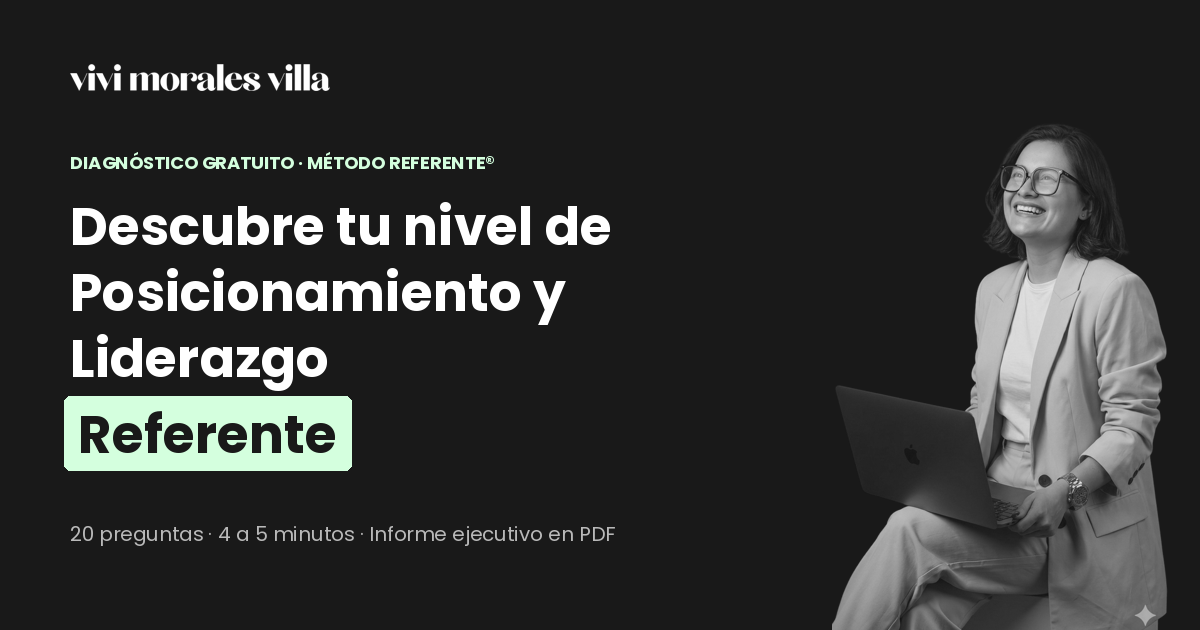
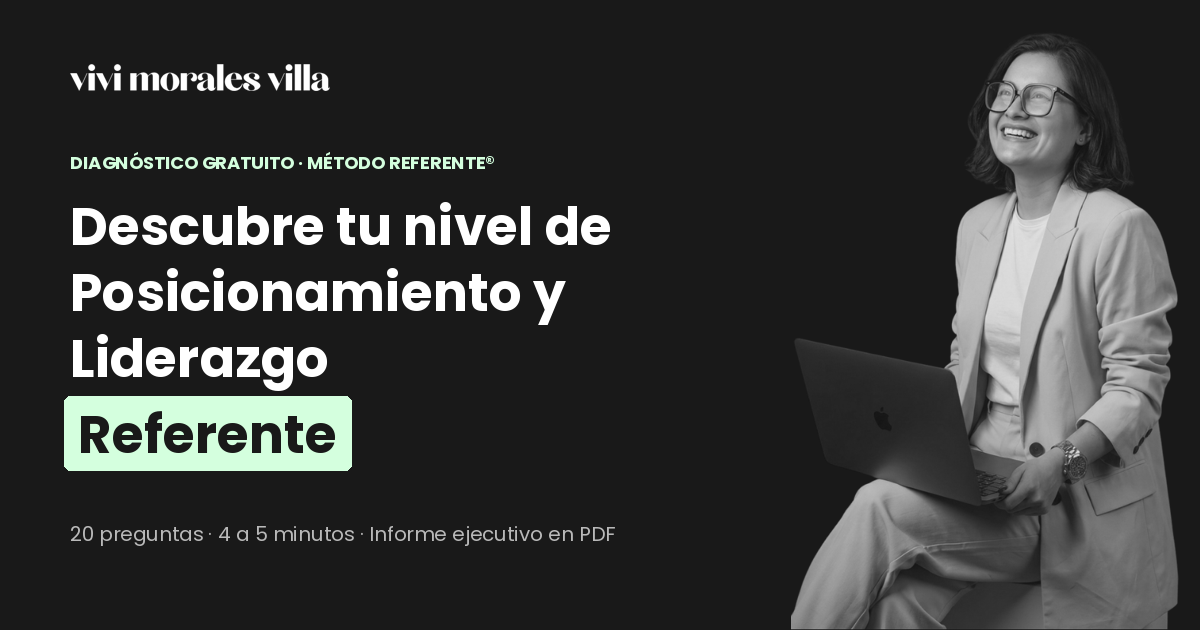
Landing y resultado: fotos nuevas, firma con redes y reinicio desde la landing
- Portada a la altura de la pantalla, foto nueva sin marca de IA y logo de fondo completo
- Sección 02: "Tu talento necesita ser reconocido como Referente"
- Sección 04 con nueva foto y llamado "Tú y tu experiencia necesitan ser reconocidos
  como Referentes" con botón; se elimina la franja verde final
- Resultado: texto del hashtag junto al botón de compartir, firma con logo, Instagram
  y LinkedIn, y botón para volver a realizar el diagnóstico desde la landing
- PDF: encabezado de las páginas internas con logo y URL más grandes
- Imagen para redes (og.png) con la foto nueva

Claude-Session: https://claude.ai/code/session_016wE6jvey6rz8rRZpkKC8Qa

Changed region(s): [[0.6475, 0.0603, 0.9867, 1.0], [0.6783, 0.5429, 0.74, 0.573]]

diff --git a/src/components/report/ReportDocument.tsx b/src/components/report/ReportDocument.tsx
@@ -24,11 +24,11 @@ const C = {
 };
 
 const s = StyleSheet.create({
-  page: { fontFamily: "Poppins", fontSize: 10, lineHeight: 1.5, paddingTop: 54, paddingBottom: 78, paddingHorizontal: 50 },
+  page: { fontFamily: "Poppins", fontSize: 10, lineHeight: 1.5, paddingTop: 76, paddingBottom: 78, paddingHorizontal: 50 },
   dark: { backgroundColor: C.carbon, color: C.blanco },
   mint: { backgroundColor: C.menta, color: C.carbon },
   light: { backgroundColor: C.hueso, color: C.carbon },
-  header: { position: "absolute", top: 24, left: 50, right: 50, flexDirection: "row", justifyContent: "space-between", fontSize: 7, letterSpacing: 1.4, fontWeight: 600 },
+  header: { position: "absolute", top: 24, left: 50, right: 50, flexDirection: "row", justifyContent: "space-between", alignItems: "center" },
   footer: { position: "absolute", bottom: 22, left: 50, right: 50, flexDirection: "row", justifyContent: "space-between", alignItems: "flex-start", borderTopWidth: 1, paddingTop: 9 },
   eyebrow: { fontSize: 8, fontWeight: 600, letterSpacing: 1.6, textTransform: "uppercase", marginBottom: 8 },
   h1: { fontSize: 30, fontWeight: 700, lineHeight: 1.12 },
@@ -52,11 +52,16 @@ interface Props {
   origin: string;
 }
 
-function Header({ n, color }: { n: number; color: string }) {
+function Header({ n, color, accent, logo }: { n: number; color: string; accent: string; logo: string }) {
   return (
     <View style={[s.header, { color }]} fixed>
-      <Text>VIVI MORALES VILLA / MÉTODO REFERENTE®</Text>
-      <Text>{String(n).padStart(2, "0")} / 06</Text>
+      <Image src={logo} style={{ width: 150 }} />
+      <View style={{ alignItems: "flex-end" }}>
+        <Link src={LINKS.sitio} style={{ fontSize: 12, fontWeight: 700, color: accent, textDecoration: "none" }}>
+          {SITE_LABEL}
+        </Link>
+        <Text style={{ fontSize: 7, letterSpacing: 1.4, fontWeight: 600, marginTop: 2 }}>{String(n).padStart(2, "0")} / 06</Text>
+      </View>
     </View>
   );
 }
@@ -232,7 +237,7 @@ export default function ReportDocument({ lead, scores, answers, date, origin }: 
 
       {/* Página 2 · Marco metodológico */}
       <Page size="A4" style={[s.page, s.mint]}>
-        <Header n={2} color={C.salviaOscuro} />
+        <Header n={2} color={C.salviaOscuro} accent={C.carbon} logo={img("/brand/logo-wordmark-carbon.png")} />
         <Text style={[s.eyebrow, { color: C.salviaOscuro }]}>Marco metodológico</Text>
         <Text style={s.h2}>Las 2 dimensiones de la autoridad profesional</Text>
         <Text style={[s.p, { width: 440 }]}>
@@ -240,7 +245,7 @@ export default function ReportDocument({ lead, scores, answers, date, origin }: 
           de la exposición aleatoria: proviene del equilibrio entre el Liderazgo Real y la Visibilidad Estratégica.
         </Text>
 
-        <View style={[s.row, { marginTop: 14, alignItems: "stretch" }]}>
+        <View style={[s.row, { marginTop: 10, alignItems: "stretch" }]}>
           <View style={[s.box, { backgroundColor: C.blanco, flex: 1 }]}>
             <Text style={{ fontSize: 7.5, fontWeight: 600, color: C.salviaOscuro, letterSpacing: 1 }}>{AXES.x.eje.toUpperCase()}</Text>
             <Text style={{ fontWeight: 700, fontSize: 10.5 }}>{AXES.x.nombre}</Text>
@@ -271,7 +276,7 @@ export default function ReportDocument({ lead, scores, answers, date, origin }: 
             d: "Mide la estructura de tu huella digital, la claridad de tu Método propio, la optimización de tus perfiles profesionales y tu nivel de visibilidad en buscadores e Inteligencia Artificial, con base en los 5 Ejes del Posicionamiento Referente.",
           },
         ].map((x) => (
-          <View key={x.n} style={[s.row, { marginTop: 22 }]} wrap={false}>
+          <View key={x.n} style={[s.row, { marginTop: 14 }]} wrap={false}>
             <Text style={[s.numLight, { width: 62, color: C.salviaOscuro }]}>{x.n}</Text>
             <View style={{ flex: 1 }}>
               <Text style={s.h3}>{x.t}</Text>
@@ -280,7 +285,7 @@ export default function ReportDocument({ lead, scores, answers, date, origin }: 
           </View>
         ))}
 
-        <View style={[s.box, { backgroundColor: C.blanco, marginTop: 22 }]}>
+        <View style={[s.box, { backgroundColor: C.blanco, marginTop: 14 }]}>
           <Text style={[s.eyebrow, { color: C.salviaOscuro, marginBottom: 4 }]}>Escala de medición</Text>
           <Text>
             Cada eje se evalúa con 10 preguntas y se expresa de 0 a 100 puntos. El punto de corte estratégico (50/100) separa
@@ -288,7 +293,7 @@ export default function ReportDocument({ lead, scores, answers, date, origin }: 
           </Text>
         </View>
 
-        <View style={[s.row, { marginTop: 22 }]}>
+        <View style={[s.row, { marginTop: 14 }]}>
           {EVIDENCIA.map((e, i) => (
             <View key={e.cifra} style={[s.box, { backgroundColor: C.carbon, color: C.blanco, flex: 1, marginLeft: i ? 10 : 0 }]}>
               <Text style={{ fontSize: 24, fontWeight: 700, color: C.menta, lineHeight: 1 }}>{e.cifra}</Text>
@@ -302,7 +307,7 @@ export default function ReportDocument({ lead, scores, answers, date, origin }: 
 
       {/* Página 3 · Matriz de Posicionamiento Referente */}
       <Page size="A4" style={[s.page, s.dark]}>
-        <Header n={3} color={C.salvia} />
+        <Header n={3} color={C.salvia} accent={C.blanco} logo={img("/brand/logo-wordmark-blanco.png")} />
         <Text style={[s.eyebrow, { color: C.menta }]}>Visualización del diagnóstico</Text>
         <Text style={s.h2}>Tu ubicación en la Matriz de Posicionamiento Referente</Text>
         <View style={{ alignItems: "center", marginTop: 10, marginBottom: 18 }}>
@@ -325,7 +330,7 @@ export default function ReportDocument({ lead, scores, answers, date, origin }: 
 
       {/* Página 4 · Diagnóstico profundo */}
       <Page size="A4" style={[s.page, s.light]}>
-        <Header n={4} color={C.salvia} />
+        <Header n={4} color={C.salvia} accent={C.carbon} logo={img("/brand/logo-wordmark-carbon.png")} />
         <Text style={[s.eyebrow, { color: C.salvia }]}>
           Diagnóstico profundo · Cuadrante {q.number} · {q.coords}
         </Text>
@@ -356,7 +361,7 @@ export default function ReportDocument({ lead, scores, answers, date, origin }: 
 
       {/* Página 5 · Recomendaciones y ruta */}
       <Page size="A4" style={[s.page, s.dark]}>
-        <Header n={5} color={C.salvia} />
+        <Header n={5} color={C.salvia} accent={C.blanco} logo={img("/brand/logo-wordmark-blanco.png")} />
         <Text style={[s.eyebrow, { color: C.menta }]}>Recomendaciones personalizadas</Text>
         <Text style={s.h2}>Tu ruta de evolución</Text>
 
@@ -413,7 +418,7 @@ export default function ReportDocument({ lead, scores, answers, date, origin }: 
 
       {/* Página 6 · Plan de acción y CTA */}
       <Page size="A4" style={[s.page, s.light]}>
-        <Header n={6} color={C.salvia} />
+        <Header n={6} color={C.salvia} accent={C.carbon} logo={img("/brand/logo-wordmark-carbon.png")} />
         <Text style={[s.eyebrow, { color: C.salvia }]}>Plan de acción</Text>
         <Text style={s.h2}>Tus próximos 3 pasos</Text>
 

diff --git a/src/app/globals.css b/src/app/globals.css
@@ -74,15 +74,15 @@ h3 { font-size: clamp(19px, 2.2vw, 22px); }
 .topbar .site { font-size: 13px; color: var(--texto-suave); text-decoration: none; }
 
 /* Hero */
-.hero { position: relative; min-height: min(860px, 100svh); display: flex; flex-direction: column; overflow: hidden; }
-.hero-grid { flex: 1; display: grid; grid-template-columns: 1.15fr 0.85fr; align-items: center; gap: 24px; }
+.hero { position: relative; height: 100svh; min-height: 620px; max-height: 960px; display: flex; flex-direction: column; overflow: hidden; }
+.hero-grid { flex: 1; min-height: 0; display: grid; grid-template-columns: 1.15fr 0.85fr; align-items: center; gap: 24px; }
 .hero-copy { padding: 32px 0 64px; position: relative; z-index: 2; }
 .hero-copy h1 { margin-bottom: 24px; max-width: 16ch; }
 .hero-meta { display: flex; flex-wrap: wrap; gap: 10px 22px; margin: 28px 0 36px; font-size: 14px; color: var(--texto-suave); }
 .hero-meta span::before { content: ""; display: inline-block; width: 8px; height: 8px; border-radius: 2px; background: var(--menta); margin-right: 8px; vertical-align: 1px; }
-.hero-photo { align-self: end; position: relative; height: 100%; display: flex; align-items: flex-end; justify-content: center; }
-.hero-photo img { max-height: 760px; width: auto; object-fit: contain; -webkit-mask-image: linear-gradient(to bottom, #000 82%, transparent); mask-image: linear-gradient(to bottom, #000 82%, transparent); }
-.watermark { position: absolute; left: 50%; bottom: -2%; transform: translateX(-50%); width: 120%; max-width: none; opacity: 0.04; pointer-events: none; z-index: 1; }
+.hero-photo { align-self: stretch; position: relative; min-height: 0; display: flex; align-items: flex-end; justify-content: center; padding-top: 8px; }
+.hero-photo img { max-height: 100%; width: auto; object-fit: contain; position: relative; z-index: 2; }
+.watermark { flex: none; display: block; width: calc(100% - 2 * var(--gutter)); max-width: none; margin: 0 auto 18px; opacity: 0.07; pointer-events: none; }
 
 /* Secciones */
 .section { padding: clamp(64px, 10vw, 120px) 0; position: relative; }
@@ -116,8 +116,9 @@ h3 { font-size: clamp(19px, 2.2vw, 22px); }
 .quad p { margin: 0; font-size: 14px; color: #4a4a4a; }
 
 .about { display: grid; grid-template-columns: 0.8fr 1.2fr; gap: clamp(32px, 6vw, 72px); align-items: center; }
-.about .about-photo { width: 100%; max-width: 320px; height: auto; margin: 0 auto; }
-.about .monogram { height: 34px; width: auto; margin-top: 28px; }
+.about .about-photo { width: 100%; max-width: 300px; height: auto; margin: 0 auto; }
+.about-cta { margin-top: 32px; padding-top: 28px; border-top: 1px solid var(--linea); }
+.about-cta p { font-size: clamp(20px, 2.4vw, 26px); font-weight: 600; line-height: 1.35; margin: 0 0 20px; }
 
 .cta-final { text-align: left; }
 .footer { border-top: 1px solid var(--linea); padding: 28px 0; font-size: 13px; color: var(--texto-suave); }
@@ -213,7 +214,6 @@ h3 { font-size: clamp(19px, 2.2vw, 22px); }
 .panel p { margin: 0 0 12px; }
 .panel ul { margin: 0; padding-left: 18px; }
 .panel li { margin-bottom: 8px; }
-.restart { background: none; border: 0; color: var(--texto-suave); text-decoration: underline; font-size: 13px; padding: 0; }
 
 .toast { position: fixed; left: 50%; bottom: 24px; transform: translateX(-50%); background: var(--blanco); color: var(--carbon); padding: 12px 18px; border-radius: 10px; font-size: 14px; box-shadow: 0 10px 30px rgba(0, 0, 0, 0.35); z-index: 50; max-width: calc(100vw - 32px); }
 
@@ -226,6 +226,7 @@ h3 { font-size: clamp(19px, 2.2vw, 22px); }
 
 @media (max-width: 900px) {
   .hero-grid, .split, .about, .result-hero, .result-grid { grid-template-columns: 1fr; }
+  .hero { height: auto; max-height: none; min-height: 0; padding-bottom: 72px; }
   .hero-photo { order: -1; height: auto; max-height: 340px; overflow: hidden; }
   .hero-photo img { max-height: 340px; }
   .hero-copy { padding-top: 0; }
@@ -252,3 +253,26 @@ h3 { font-size: clamp(19px, 2.2vw, 22px); }
 
 /* Campo de teléfono con indicativo */
 .phone { display: grid; grid-template-columns: minmax(0, 170px) 1fr; gap: 8px; }
+
+/* Compartir resultado */
+.share-row { display: flex; align-items: center; gap: 12px 16px; margin-top: 12px; }
+.share-row .btn { flex: none; }
+.share-row p { margin: 0; font-size: 13px; line-height: 1.45; color: var(--texto-suave); }
+.share-row b { color: var(--menta); font-weight: 600; }
+
+/* Firma al final de la hoja de resultados */
+.result-footer { display: flex; flex-wrap: wrap; align-items: center; justify-content: space-between; gap: 28px; margin-top: 64px; padding-top: 32px; border-top: 1px solid var(--linea); }
+.signature { display: flex; align-items: center; gap: 24px; }
+.signature-logo { width: 120px; height: auto; flex: none; }
+.signature-name { color: var(--menta); font-weight: 700; font-size: 20px; margin: 0 0 4px; }
+.signature-roles { color: var(--texto-suave); font-size: 13px; margin: 0 0 12px; max-width: 52ch; }
+.signature-social { display: flex; align-items: center; gap: 10px; }
+.signature-social a { width: 34px; height: 34px; border-radius: 8px; background: var(--menta); color: var(--carbon); display: grid; place-items: center; transition: background 0.15s; }
+.signature-social a:hover { background: var(--verde); }
+.signature-social svg { width: 18px; height: 18px; }
+.signature-social span { margin-left: 6px; color: var(--menta); font-size: 13px; font-weight: 600; letter-spacing: 0.22em; }
+@media (max-width: 560px) {
+  .signature { flex-direction: column; align-items: flex-start; gap: 16px; }
+  .result-footer .btn { width: 100%; }
+  .share-row { flex-direction: column; align-items: stretch; }
+}

diff --git a/src/components/Landing.tsx b/src/components/Landing.tsx
@@ -41,7 +41,7 @@ export default function Landing({ onStart }: { onStart: () => void }) {
             {cta}
           </div>
           <div className="hero-photo">
-            <img src="/photos/vivi-laptop.png" alt="Vivi Morales Villa" width={538} height={955} />
+            <img src="/photos/vivi-laptop.png" alt="Vivi Morales Villa" width={510} height={785} />
           </div>
         </div>
         <img className="watermark" src="/brand/logo-wordmark-blanco.png" alt="" aria-hidden />
@@ -85,7 +85,7 @@ export default function Landing({ onStart }: { onStart: () => void }) {
         <div className="wrap">
           <p className="eyebrow">02 / La evidencia</p>
           <h2>
-            Tu talento necesita <span className="hl">ser visible.</span>
+            Tu talento necesita ser reconocido como <span className="hl">Referente</span>
           </h2>
           <div className="stats">
             {EVIDENCIA.map((e) => (
@@ -126,7 +126,7 @@ export default function Landing({ onStart }: { onStart: () => void }) {
 
       <section className="section">
         <div className="wrap about">
-          <img className="about-photo" src="/photos/vivi-silla.png" alt="Vivi Morales Villa" width={615} height={1092} />
+          <img className="about-photo" src="/photos/vivi-camisa.png" alt="Vivi Morales Villa" width={361} height={756} />
           <div>
             <p className="eyebrow">04 / Quién está detrás</p>
             <h2>Vivi Morales Villa</h2>
@@ -139,20 +139,15 @@ export default function Landing({ onStart }: { onStart: () => void }) {
               Colombina y SGS. Ha formado a líderes y empresarios en más de 14 países y es la estratega detrás de la
               reputación digital de reconocidos ejecutivos y LinkedIn Top Voices.
             </p>
-            <img className="monogram" src="/brand/monograma-blanco.png" alt="vmv" width={423} height={121} />
+            <div className="about-cta">
+              <p>
+                Tú y tu experiencia necesitan ser reconocidos como <span className="hl">Referentes.</span>
+              </p>
+              <button className="btn btn-primary" onClick={onStart}>
+                Comenzar diagnóstico <span aria-hidden>→</span>
+              </button>
+            </div>
           </div>
-        </div>
-      </section>
-
-      <section className="section mint">
-        <div className="wrap narrow cta-final">
-          <h2>Tus resultados necesitan ser visibles. Empieza por saber dónde estás.</h2>
-          <p className="lead" style={{ margin: "16px 0 32px" }}>
-            Responde con honestidad: no hay respuestas correctas, solo tu momento actual.
-          </p>
-          <button className="btn btn-dark" onClick={onStart}>
-            Comenzar mi diagnóstico <span aria-hidden>→</span>
-          </button>
         </div>
       </section>
 

diff --git a/src/components/Signature.tsx b/src/components/Signature.tsx
@@ -1,0 +1,46 @@
+/* eslint-disable @next/next/no-img-element */
+// Firma de Vivi Morales Villa con redes sociales (misma composición que el informe PDF).
+import { HANDLE, SOCIAL } from "@/lib/config";
+
+function Instagram() {
+  return (
+    <svg viewBox="0 0 24 24" aria-hidden>
+      <rect x="3" y="3" width="18" height="18" rx="5" fill="none" stroke="currentColor" strokeWidth="2" />
+      <circle cx="12" cy="12" r="4" fill="none" stroke="currentColor" strokeWidth="2" />
+      <circle cx="17.5" cy="6.5" r="1.3" fill="currentColor" />
+    </svg>
+  );
+}
+
+function LinkedIn() {
+  return (
+    <svg viewBox="0 0 24 24" aria-hidden>
+      <rect x="3.5" y="9" width="3.6" height="11" fill="currentColor" />
+      <circle cx="5.3" cy="5.3" r="2.1" fill="currentColor" />
+      <path d="M10 9h3.4v1.6c.6-1 1.8-1.9 3.6-1.9 3 0 3.5 2 3.5 4.6V20h-3.6v-5.8c0-1.4 0-3-1.9-3s-2.1 1.4-2.1 2.9V20H10z" fill="currentColor" />
+    </svg>
+  );
+}
+
+export default function Signature() {
+  return (
+    <div className="signature">
+      <img className="signature-logo" src="/brand/monograma-blanco.png" alt="vmv · Vivi Morales Villa" width={423} height={121} />
+      <div>
+        <p className="signature-name">Vivi Morales Villa</p>
+        <p className="signature-roles">
+          Conferencista y entrenadora de Referentes · Estratega de Liderazgo y Posicionamiento · Creadora del Método REFERENTE®
+        </p>
+        <div className="signature-social">
+          <a href={SOCIAL.instagram} target="_blank" rel="noopener" aria-label="Instagram de Vivi Morales Villa">
+            <Instagram />
+          </a>
+          <a href={SOCIAL.linkedin} target="_blank" rel="noopener" aria-label="LinkedIn de Vivi Morales Villa">
+            <LinkedIn />
+          </a>
+          <span>{HANDLE.toUpperCase()}</span>
+        </div>
+      </div>
+    </div>
+  );
+}

diff --git a/src/components/Result.tsx b/src/components/Result.tsx
@@ -2,6 +2,7 @@
 
 import { useState } from "react";
 import Matrix from "./Matrix";
+import Signature from "./Signature";
 import type { SavedResult } from "./Funnel";
 import type { LeadInput } from "@/lib/form-options";
 import { QUADRANTS, brechaPrioritaria } from "@/lib/content";
@@ -115,9 +116,14 @@ export default function Result({ lead, result, onRestart }: Props) {
             <button className="btn btn-primary" onClick={getPdf} disabled={busy !== ""}>
               {busy === "pdf" ? "Generando tu informe…" : "Descargar mi informe (PDF)"}
             </button>
+          </div>
+          <div className="share-row">
             <button className="btn btn-ghost" onClick={getCard} disabled={busy !== ""}>
               {busy === "card" ? "Creando tarjeta…" : "Compartir mi resultado"}
             </button>
+            <p>
+              Compártelo en tus redes con el hashtag <b>#LiderazgoReferente</b>
+            </p>
           </div>
           <p className="result-note">Tu informe ejecutivo de 6 páginas incluye la lectura completa de tu perfil y tu ruta de evolución.</p>
         </div>
@@ -186,11 +192,12 @@ export default function Result({ lead, result, onRestart }: Props) {
         </div>
       </div>
 
-      <p style={{ marginTop: 48 }}>
-        <button className="restart" onClick={onRestart}>
-          Realizar el test nuevamente
+      <footer className="result-footer">
+        <Signature />
+        <button className="btn btn-ghost" onClick={onRestart}>
+          Volver a realizar el diagnóstico
         </button>
-      </p>
+      </footer>
       {toast && (
         <div className="toast" role="status">
           {toast}

diff --git a/src/lib/config.ts b/src/lib/config.ts
@@ -10,6 +10,12 @@ export const LINKS = {
   privacidad: "https://www.vivimoralesvilla.com/#politica-de-datos", // TODO: URL de la Política de Tratamiento de Datos
 };
 
+/** Redes sociales de Vivi Morales Villa. */
+export const SOCIAL = {
+  instagram: "https://www.instagram.com/vivimoralesvilla/",
+  linkedin: "https://www.linkedin.com/in/vivimoralesvilla/", // TODO: confirmar URL del perfil de LinkedIn
+};
+
 export const SITE_LABEL = "www.vivimoralesvilla.com";
 export const HANDLE = "@vivimoralesvilla";
 /** Nombres oficiales de los ejes de la matriz. */

diff --git a/src/components/Funnel.tsx b/src/components/Funnel.tsx
@@ -141,7 +141,7 @@ export default function Funnel() {
     } catch {
       /* noop */
     }
-    go({ ...INITIAL, stage: "form" });
+    go({ ...INITIAL, stage: "landing" });
   };
 
   if (s.stage === "landing") return <Landing onStart={() => go({ stage: "form" })} />;
